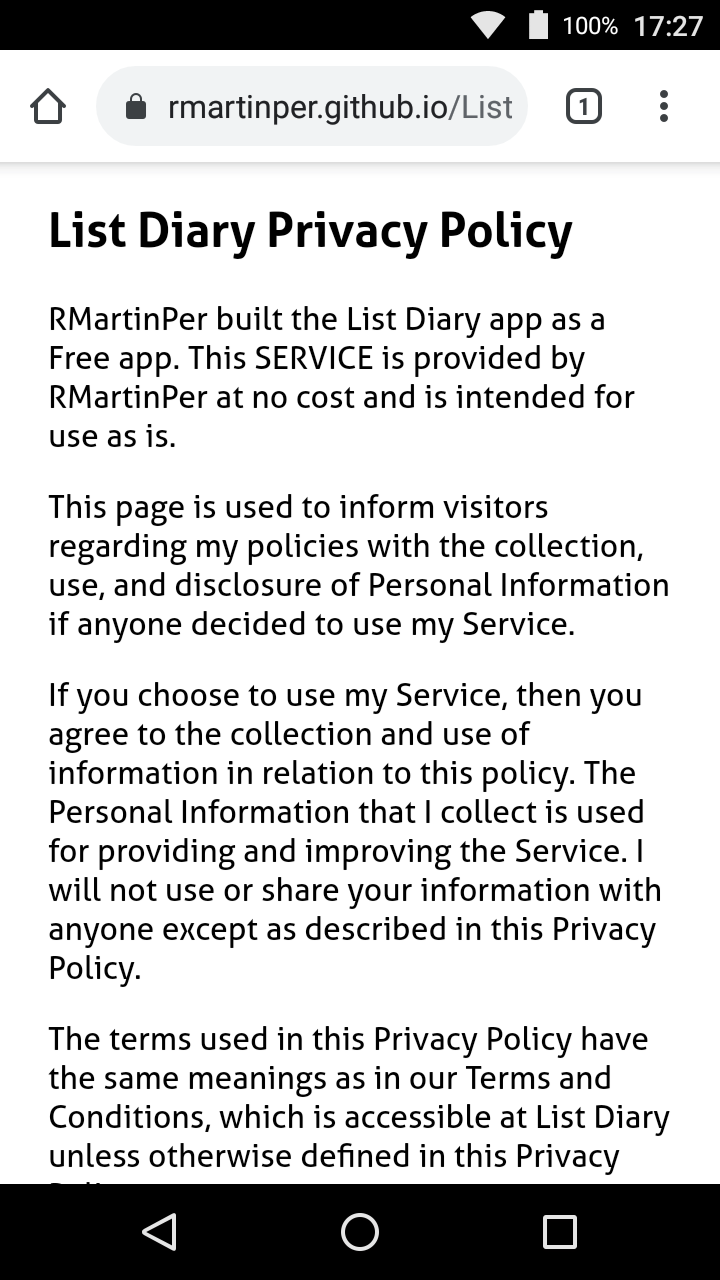
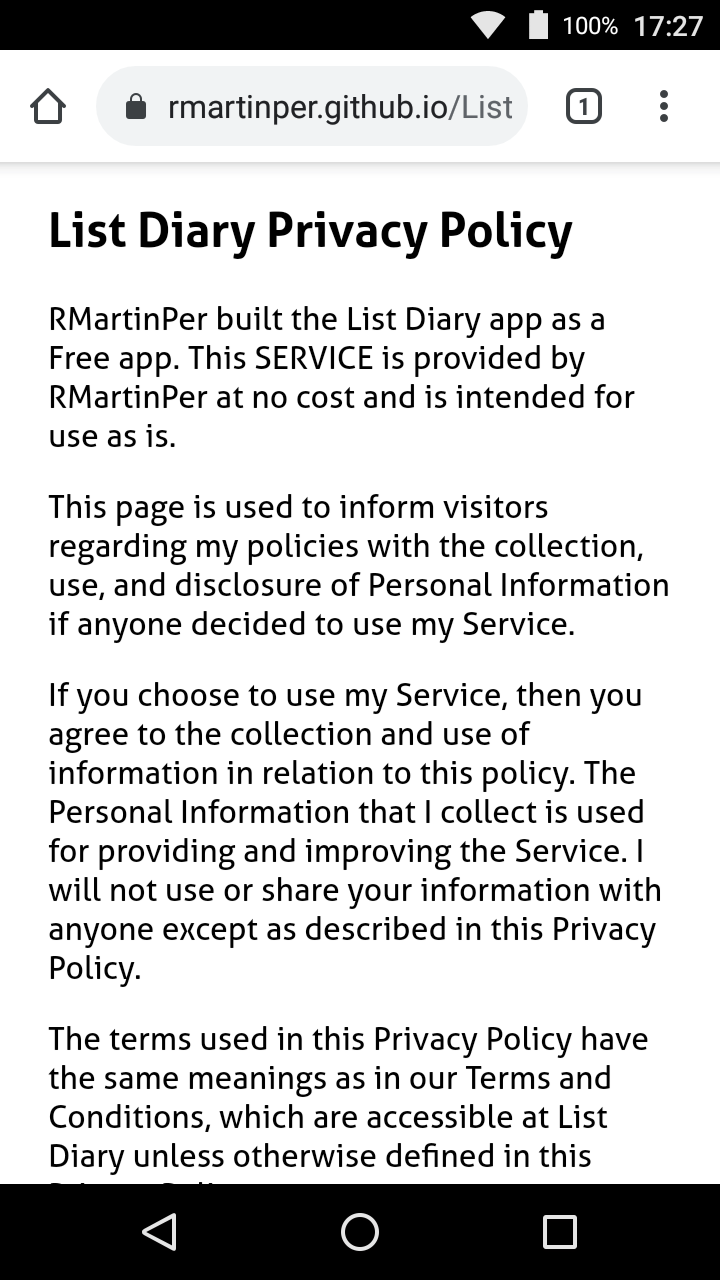
Updated the Privacy Policy and the libraries of the App

Changed region(s): [[0.0611, 0.8438, 0.9167, 0.9375]]

diff --git a/PRIVACY-POLICY.md b/PRIVACY-POLICY.md
@@ -6,7 +6,7 @@ This page is used to inform visitors regarding my policies with the collection, 
 
 If you choose to use my Service, then you agree to the collection and use of information in relation to this policy. The Personal Information that I collect is used for providing and improving the Service. I will not use or share your information with anyone except as described in this Privacy Policy.
 
-The terms used in this Privacy Policy have the same meanings as in our Terms and Conditions, which is accessible at List Diary unless otherwise defined in this Privacy Policy.
+The terms used in this Privacy Policy have the same meanings as in our Terms and Conditions, which are accessible at List Diary unless otherwise defined in this Privacy Policy.
 
 ## Information Collection and Use
 
@@ -26,7 +26,7 @@ I want to inform you that whenever you use my Service, in a case of an error in 
 
 Cookies are files with a small amount of data that are commonly used as anonymous unique identifiers. These are sent to your browser from the websites that you visit and are stored on your device's internal memory.
 
-This Service does not use these “cookies” explicitly. However, the app may use third party code and libraries that use “cookies” to collect information and improve their services. You have the option to either accept or refuse these cookies and know when a cookie is being sent to your device. If you choose to refuse our cookies, you may not be able to use some portions of this Service.
+This Service does not use these “cookies” explicitly. However, the app may use third party code and libraries that use “cookies” to collect information and improve their services. You have the option to either accept or refuse these cookies and know when a cookie is being sent to your device. If you choose to refuse our cookies, you may not be able to use some parts of this Service.
 
 ## Service Providers
 
